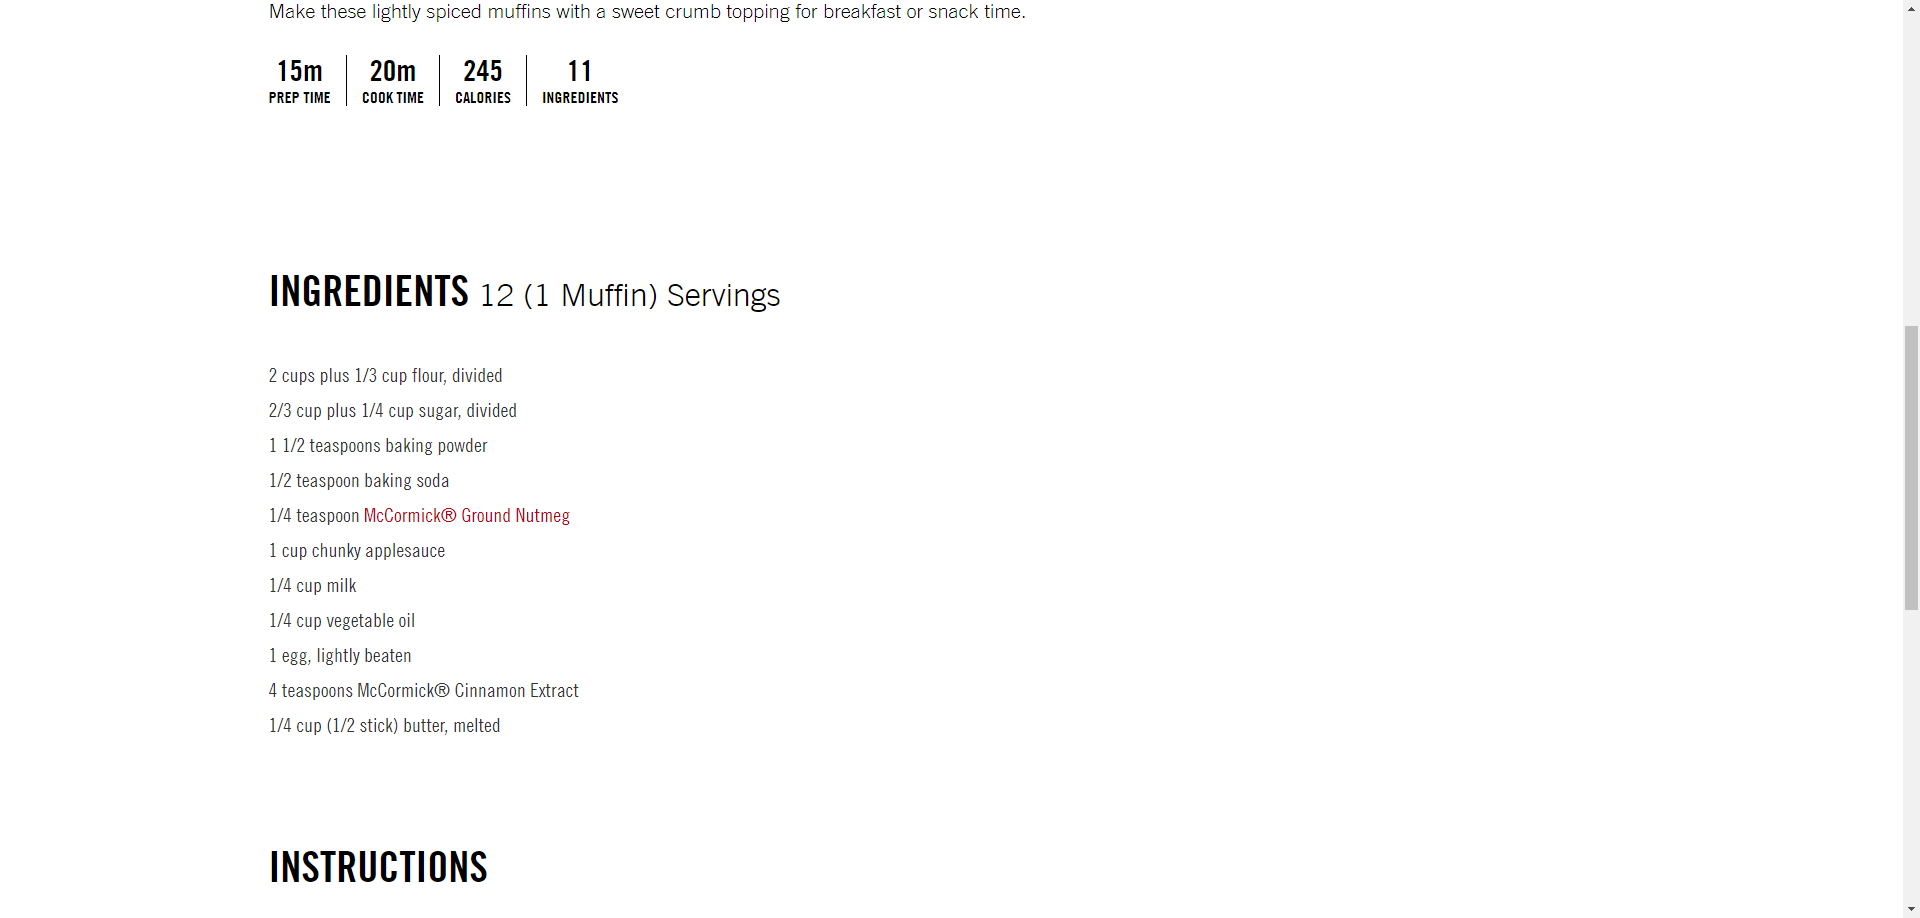
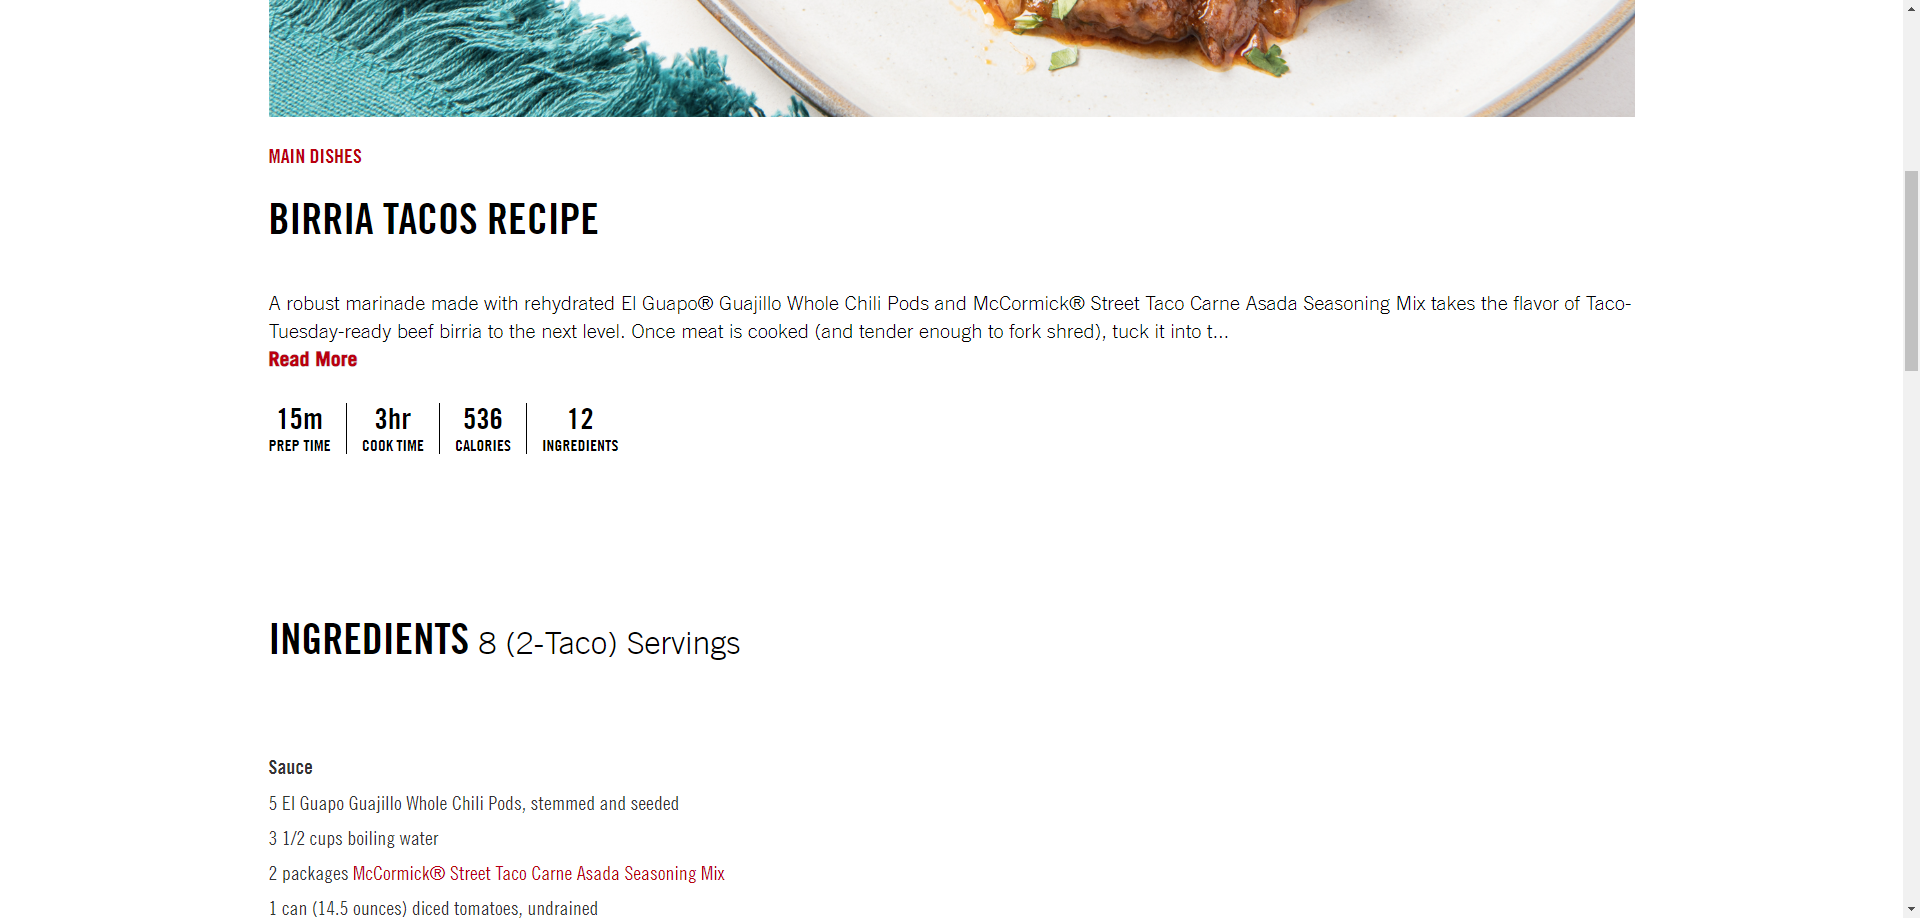
test 2

diff --git a/ChefJ.test.ts b/ChefJ.test.ts
@@ -3,26 +3,20 @@ import { mccormickBP } from "./mccormickBP";
 const mcc = new mccormickBP()
 const fs = require("fs")
 
-test('Banana Muffin Recipe loads correctly', async () => {
+test('Chef J Favorite Recipe Loads', async () => {
     await mcc.navigate()
     await mcc.driver.manage().window().maximize()
-    await mcc.click(mcc.Recipes)
-    await mcc.driver.sleep(2000)
-    await mcc.click(mcc.ARecipes)
-    await mcc.driver.sleep(2000)
-    await mcc.click(mcc.QBreakfast)
+    await mcc.click(mcc.KitchenHT)
+    await mcc.click(mcc.MeetChef)
     await mcc.driver.sleep(2000)
     await mcc.click(mcc.CancelBtn)
     await mcc.driver.sleep(2000)
-    await mcc.click(mcc.DonutsBG)
+    await mcc.click(mcc.ChefJ)
     await mcc.driver.sleep(2000)
-    await mcc.click(mcc.SeeMore)
+    await mcc.click(mcc.BTacos)
     await mcc.driver.sleep(2000)
-    await mcc.click(mcc.BananaNM)
-    await mcc.driver.sleep(2000)
-    await mcc.click(mcc.FullRecipe)
-    await mcc.driver.sleep(2000)
-    await fs.writeFile(`${__dirname}/bananamuffinrecipe.png`,
+    await mcc.click(mcc.ViewRecO)
+    await fs.writeFile(`${__dirname}/ChefJRecipe.png`,
     await mcc.driver.takeScreenshot(), "base64",
     (e) => {
         if (e) console.error(e)

diff --git a/mccormickBP.ts b/mccormickBP.ts
@@ -10,6 +10,11 @@ export class mccormickBP extends BasePage {
     SeeMore: By = By.xpath('//a[@id="tab-see-more-recipe"]')
     BananaNM: By = By.xpath('(//div[@class="ow-square-recipe-card clickable-card"])[9]')
     FullRecipe: By = By.xpath('//button[@class="ow-recipe-video-button ow-view-recipe-btn"]')
+    MeetChef: By = By.xpath('//a[text()="Meet our Chefs"]')
+    ChefJ: By = By.xpath('(//a[@class="btn ow-btn-default"])[5]')
+    BTacos: By = By.xpath('//a[text()="Birria Tacos Recipe"]')
+    KitchenHT: By = By.xpath('//li[@class="label1 item_3 has-subnav"]')
+    ViewRecO: By = By.xpath('//Button[text()="View Recipe Only"]')
 
     constructor() {
         super({url: "https://www.mccormick.com/"});
